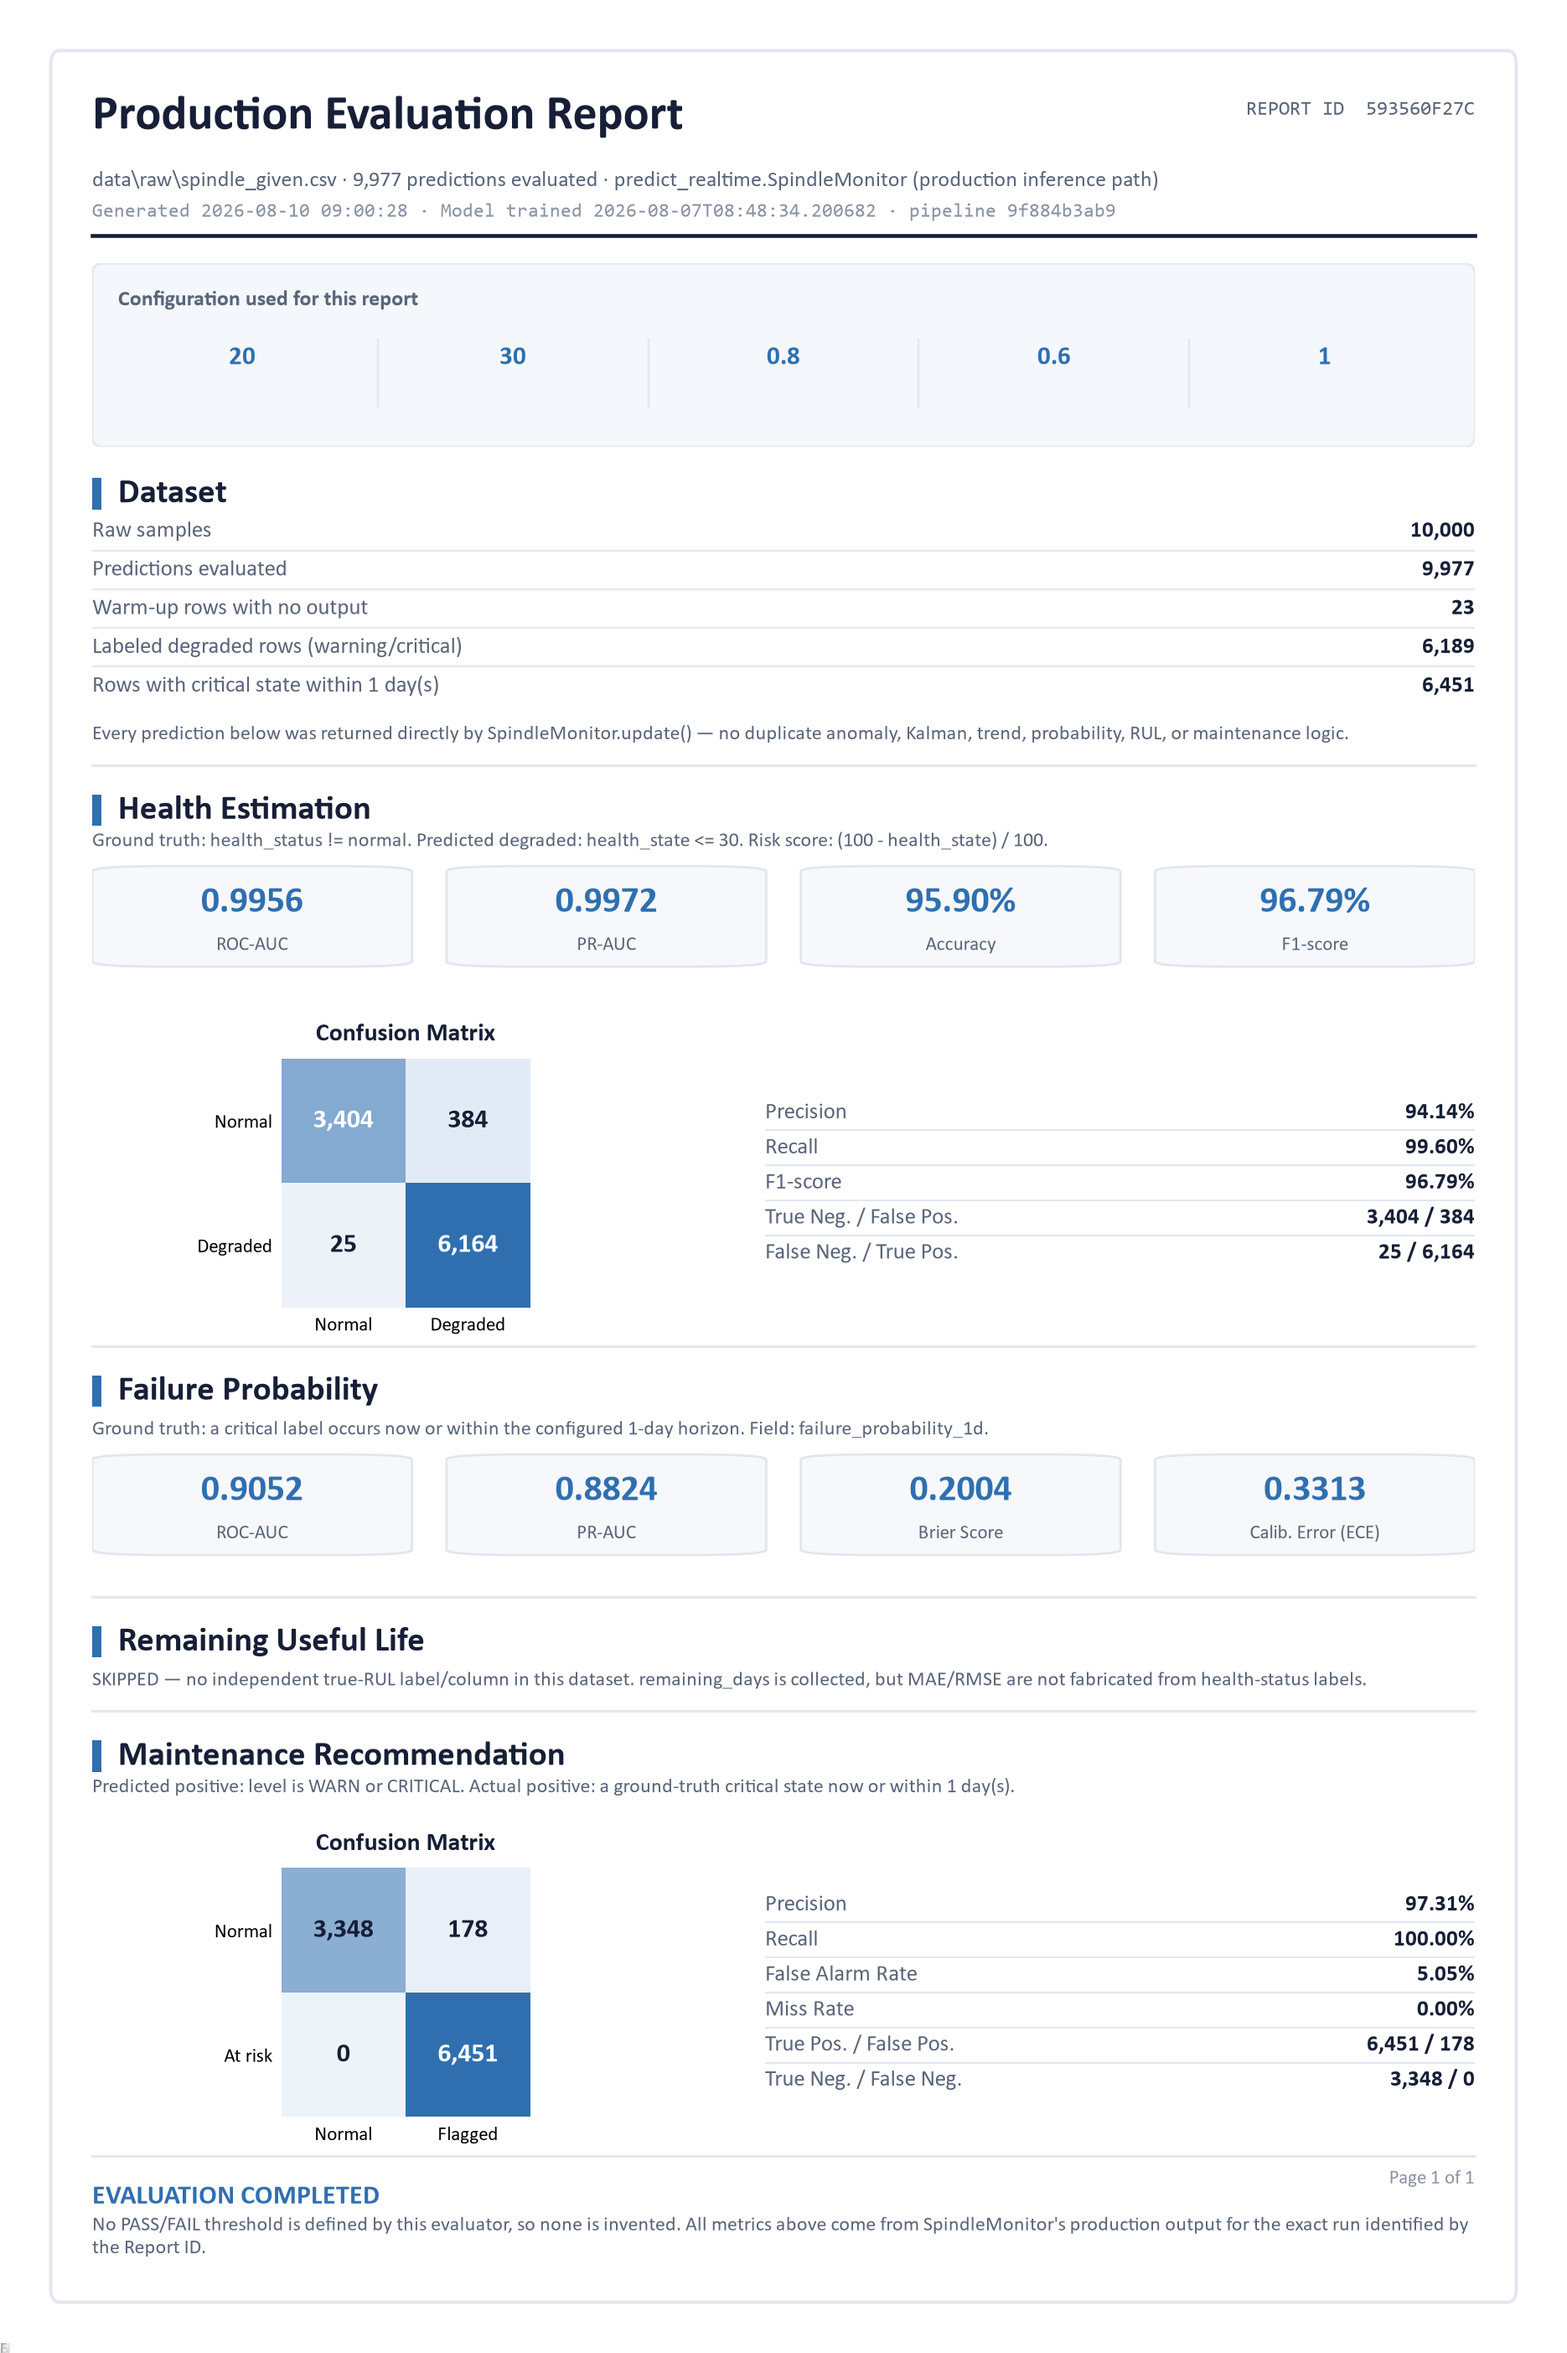
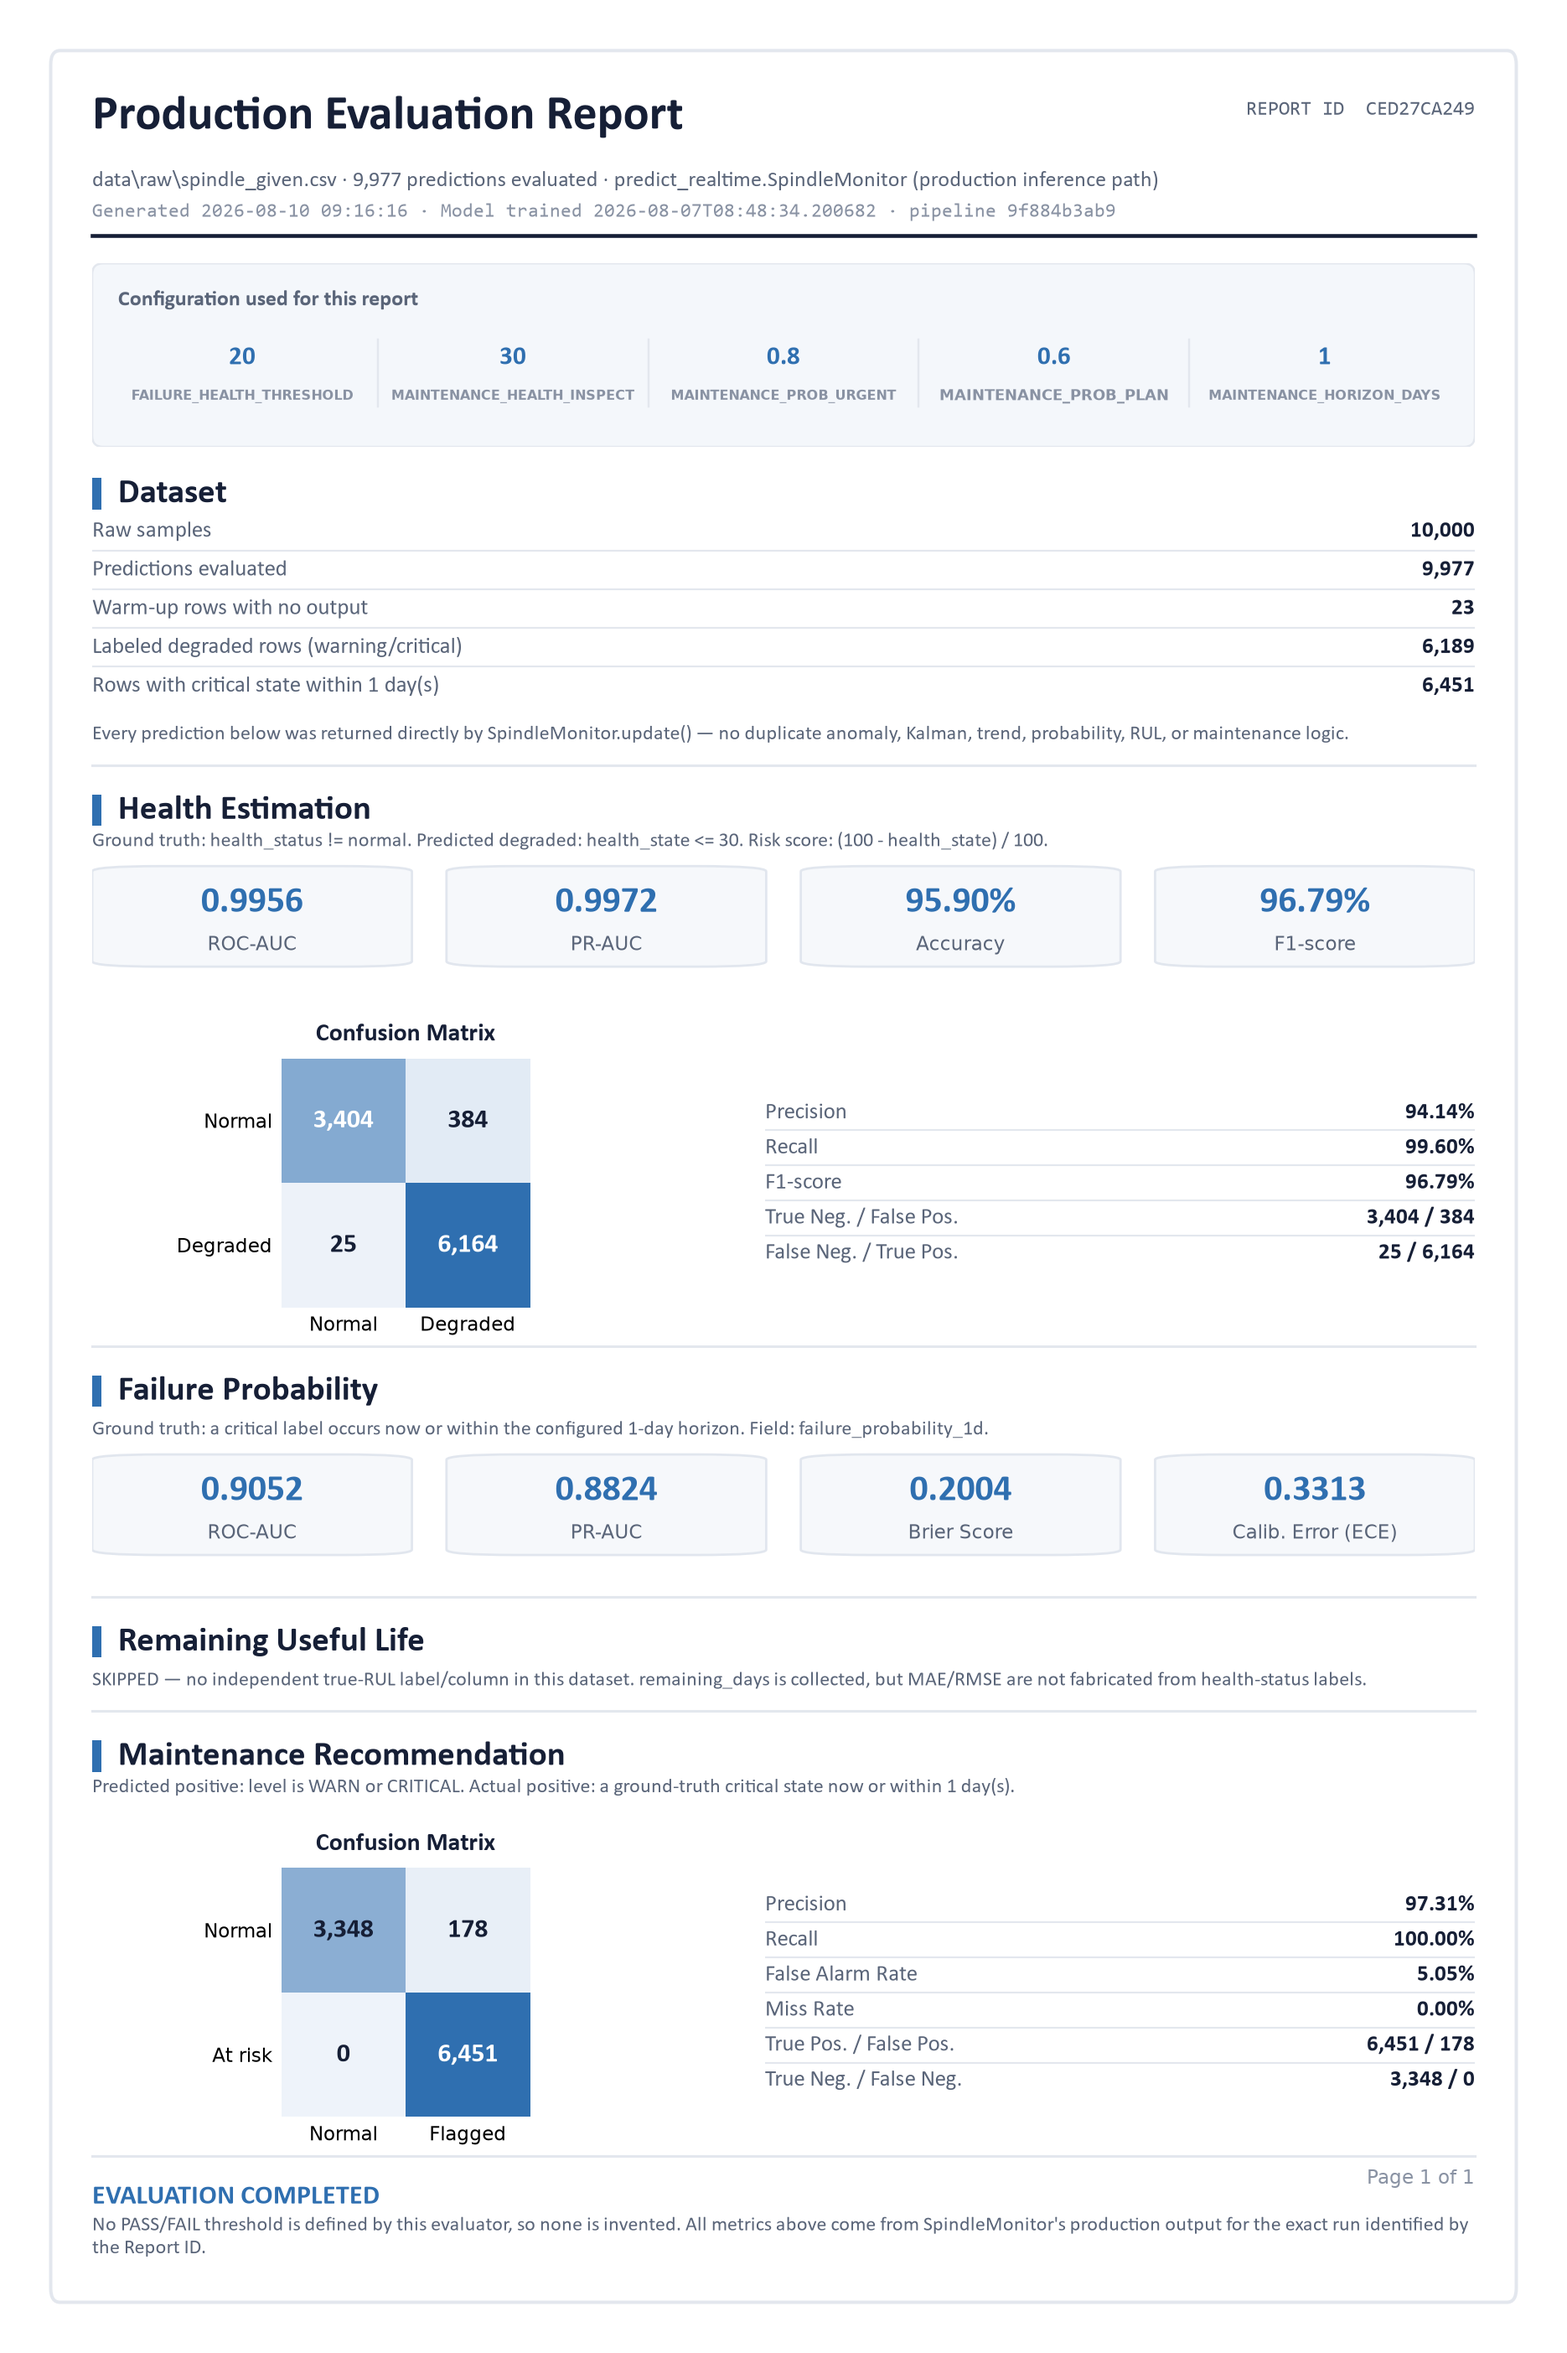
finalized edit

Changed region(s): [[0.2791, 0.8988, 0.3102, 0.9298], [0.2791, 0.5579, 0.3102, 0.5889], [0.1241, 0.5269, 0.1551, 0.5579]]

diff --git a/evaluate_production.py b/evaluate_production.py
@@ -40,8 +40,8 @@ from matplotlib.patches import FancyBboxPatch
 import hashlib
 
 import config
-import predict_realtime
 from predict_realtime import SpindleMonitor
+import predict_realtime
 
 
 LABEL_COLUMN = "health_status"
@@ -385,6 +385,18 @@ FONT_MONO = _pick_font(
     ["Liberation Mono", "Consolas", "Menlo", "Courier New", "DejaVu Sans Mono"],
     "monospace")
 
+# For text below ~7pt only. Several of the FONT_HEAD/FONT_BODY candidates
+# above (Calibri, Segoe UI, and other Microsoft ClearType-hinted fonts) embed
+# bytecode "dropout control" hinting: at small enough pixel sizes the hinter
+# decides a stem would render as an isolated/fuzzy pixel and omits it
+# entirely, so the glyph draws as nothing rather than something illegible.
+# It's silent -- no warning, no exception, matplotlib just does what the
+# font's hinting program tells it to. DejaVu Sans is bundled inside
+# matplotlib itself (always present, no lookup needed) and doesn't hit this,
+# so it's the safe choice specifically for small text, even though FONT_HEAD/
+# FONT_BODY are fine at normal reading sizes.
+FONT_SMALL = "DejaVu Sans"
+
 # Only "normal"/"bold" — not numeric weights like 600. A numeric weight with
 # no matching font file (common on fallback fonts, which usually only ship
 # regular + bold) triggers the same kind of silent substitution + warning.
@@ -563,22 +575,21 @@ class _Layout:
                 # widths for the same string, so a fixed fontsize that fit one
                 # font can overflow into the next cell under another.
                 #
-                # Use FONT_HEAD (not FONT_BODY) here: this is the only place
-                # in the file that renders FONT_BODY in bold, and on systems
-                # where that font's bold face isn't actually installed,
-                # matplotlib silently fails to draw the glyphs instead of
-                # falling back — the label disappears entirely while the
-                # separator lines around it still render. FONT_HEAD is bold
-                # everywhere else in this report (title, values) and is
-                # confirmed to render correctly, so it's the safe choice.
+                # Use FONT_SMALL here, not FONT_HEAD/FONT_BODY. This is the
+                # only text in the whole report drawn below ~7pt, and several
+                # system display fonts (Calibri, Segoe UI, etc.) silently
+                # render nothing at very small sizes due to their own
+                # hinting instructions — confirmed empirically, not a
+                # theory: FONT_HEAD/Calibri rendered blank at 5.4pt while
+                # FONT_SMALL/DejaVu Sans rendered fine at the same size.
                 label_fs = fontsize_label
                 avail_w = cw_in - 0.03
-                lw, _ = _text_size_in(label, label_fs, "bold", FONT_HEAD)
+                lw, _ = _text_size_in(label, label_fs, "bold", FONT_SMALL)
                 while lw > avail_w and label_fs > 5.0:
                     label_fs -= 0.3
-                    lw, _ = _text_size_in(label, label_fs, "bold", FONT_HEAD)
+                    lw, _ = _text_size_in(label, label_fs, "bold", FONT_SMALL)
                 ax.text(x_center, cell_mid - cell_h_in * 0.24, label, fontsize=label_fs,
-                        ha="center", va="center", fontfamily=FONT_HEAD, fontweight="bold",
+                        ha="center", va="center", fontfamily=FONT_SMALL, fontweight="bold",
                         color=MUTED)
         self.y_in += block_h
         self.gap(0.16)
@@ -674,7 +685,7 @@ def _metric_cards(fig, rect, items, ncols=None):
         ax.text(x0 + cw / 2, 0.63, value, ha="center", va="center", fontsize=14.5,
                 fontfamily=FONT_HEAD, fontweight="bold", color=ACCENT)
         ax.text(x0 + cw / 2, 0.23, label, ha="center", va="center", fontsize=7.4,
-                fontfamily=FONT_BODY, color=SUBINK)
+                fontfamily=FONT_SMALL, color=SUBINK)
 
 
 def _confusion_heatmap(ax, m: BinaryMetrics, row_pos: str, col_pos: str, title: str) -> None:
@@ -694,8 +705,8 @@ def _confusion_heatmap(ax, m: BinaryMetrics, row_pos: str, col_pos: str, title: 
                     fontfamily=FONT_HEAD, fontweight="bold")
     ax.set_xticks([0, 1])
     ax.set_yticks([0, 1])
-    ax.set_xticklabels(["Normal", col_pos], fontsize=7.4, fontfamily=FONT_BODY)
-    ax.set_yticklabels(["Normal", row_pos], fontsize=7.4, fontfamily=FONT_BODY)
+    ax.set_xticklabels(["Normal", col_pos], fontsize=7.4, fontfamily=FONT_SMALL)
+    ax.set_yticklabels(["Normal", row_pos], fontsize=7.4, fontfamily=FONT_SMALL)
     ax.set_title(title, fontsize=9.8, fontfamily=FONT_HEAD, fontweight="bold", color=INK, pad=7)
     ax.tick_params(length=0)
     for spine in ax.spines.values():
@@ -834,7 +845,7 @@ def _build_dashboard(L, raw, predictions, metrics, report_id, generated_at,
     L.line("EVALUATION COMPLETED", 10.5, family=FONT_HEAD, weight="bold", color=ACCENT)
     if L.draw:
         L.fig.text(L._fx(L.RIGHT_IN), L._fy(L.y_in - 0.20), "Page 1 of 1", fontsize=7.6,
-                   color=MUTED, ha="right", va="top", fontfamily=FONT_BODY)
+                   color=MUTED, ha="right", va="top", fontfamily=FONT_SMALL)
     L.gap(0.05)
     L.wrapped("No PASS/FAIL threshold is defined by this evaluator, so none is invented. "
               "All metrics above come from SpindleMonitor's production output for the "
